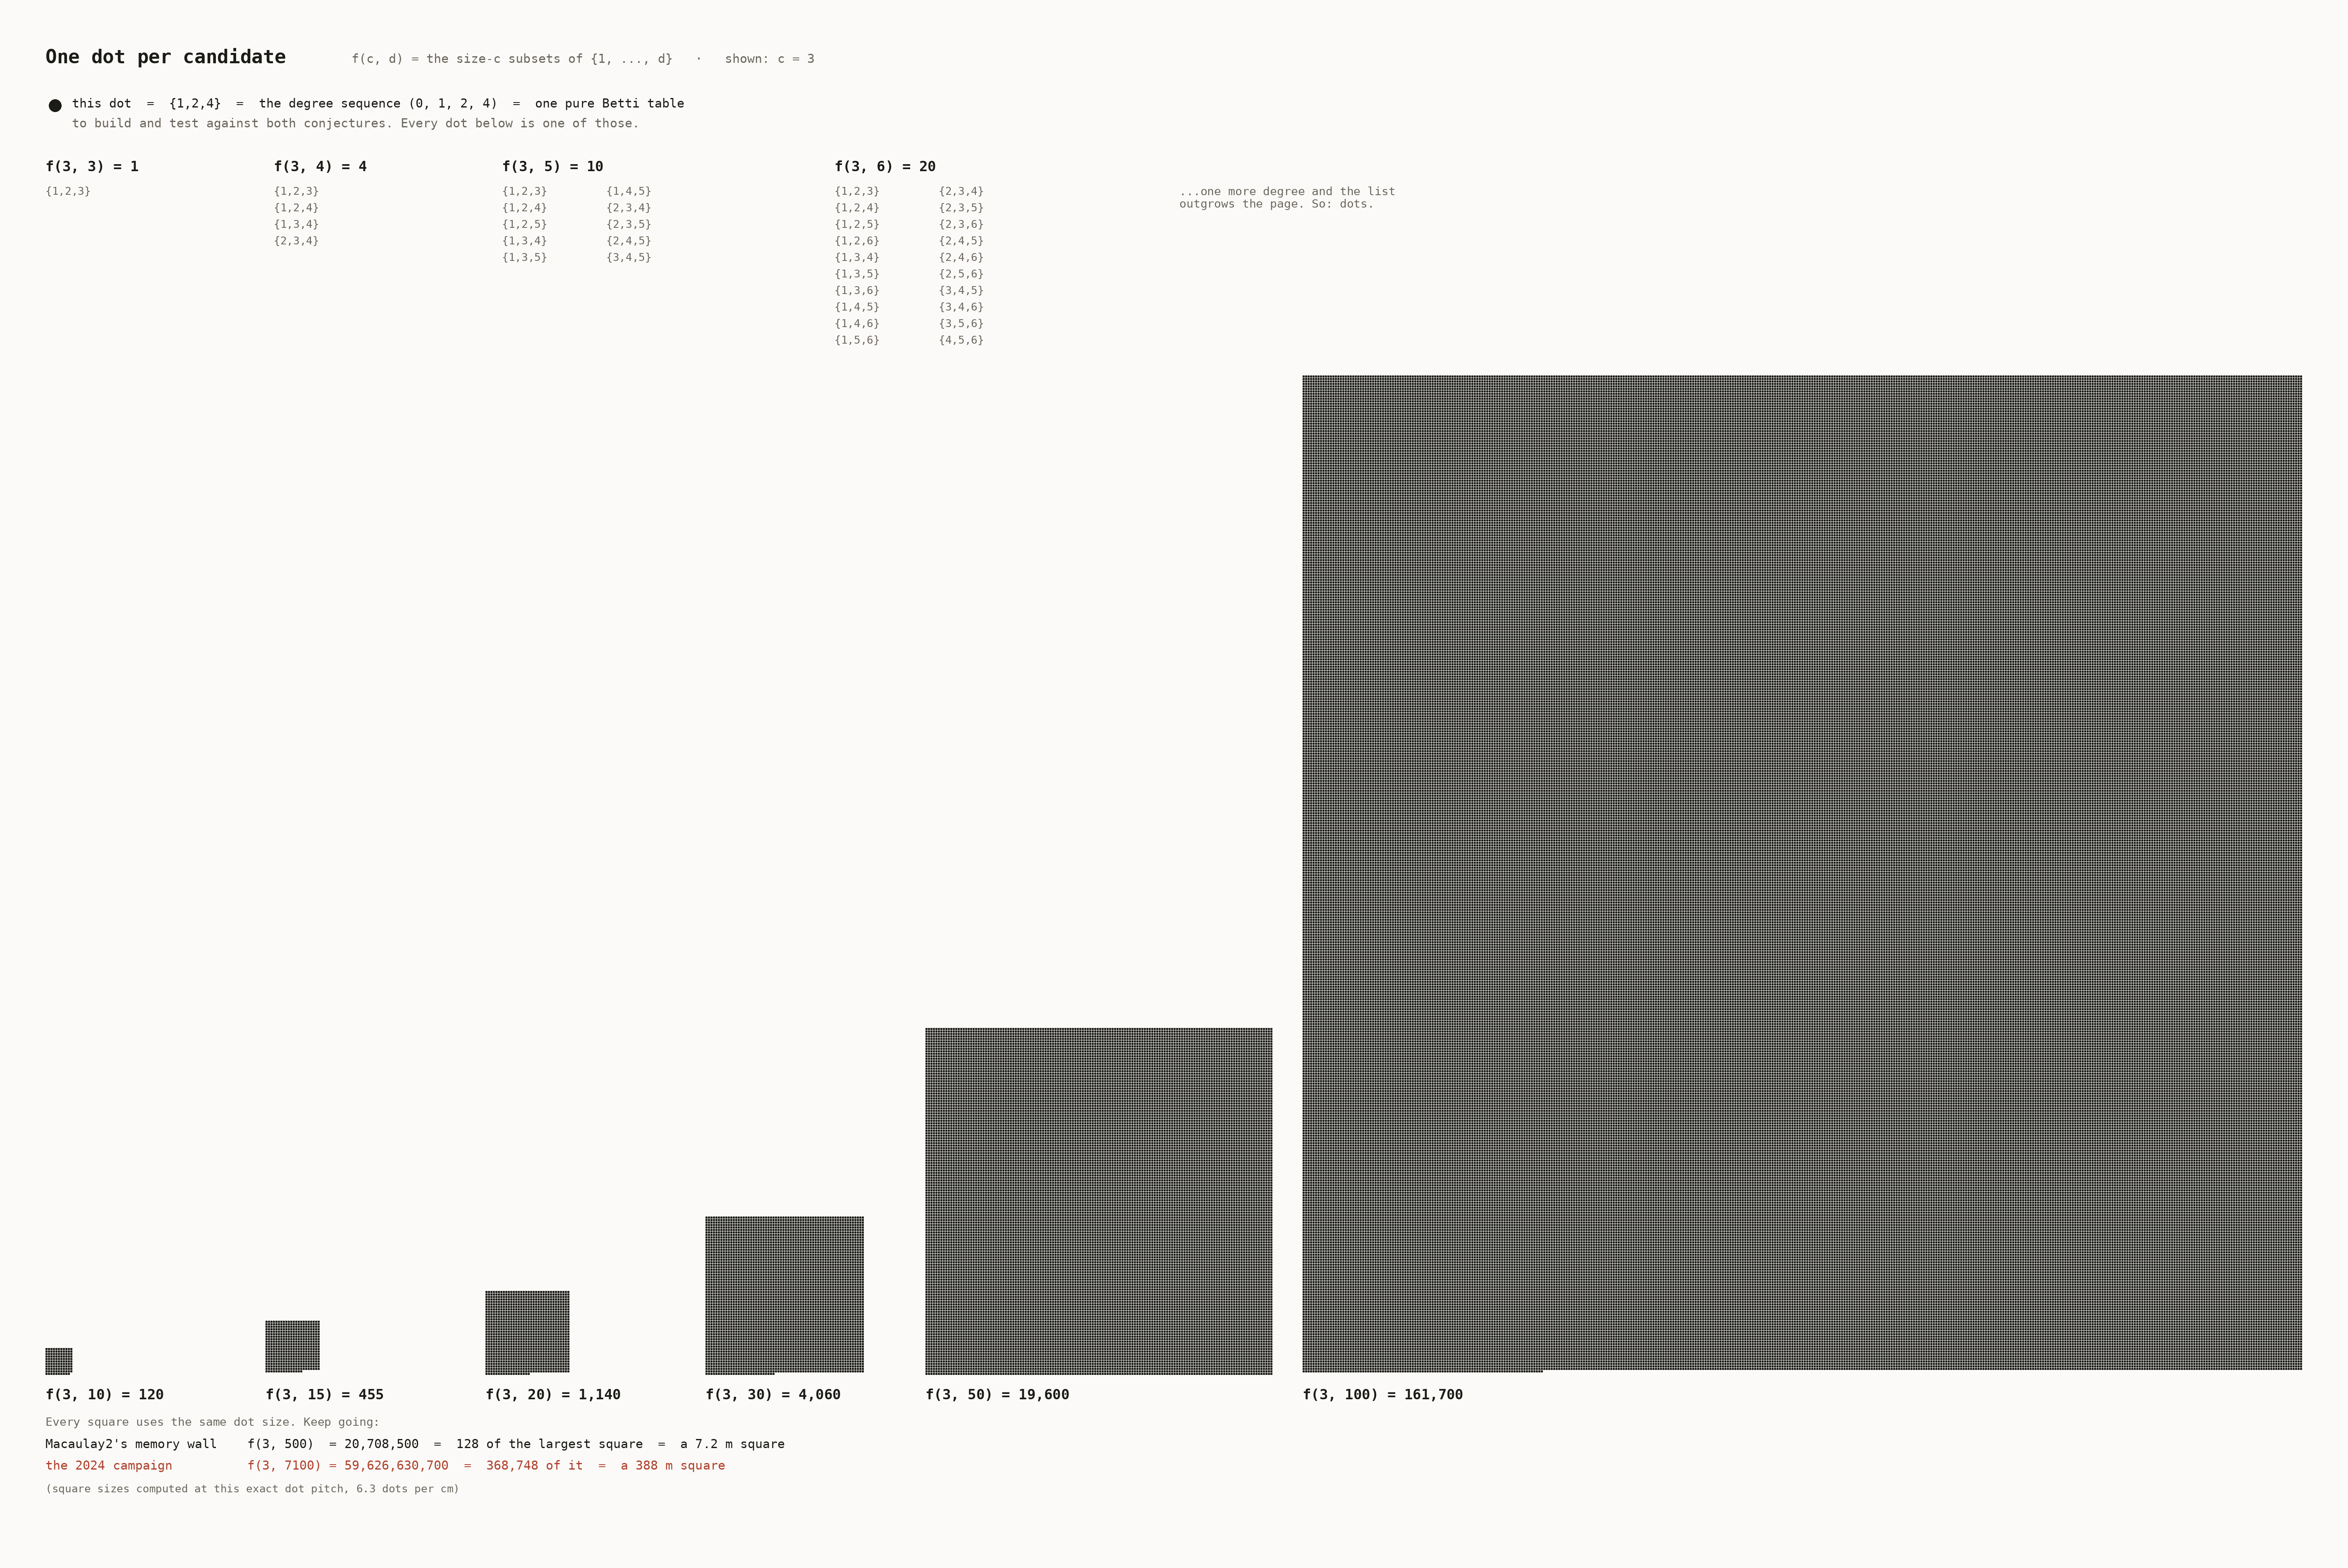
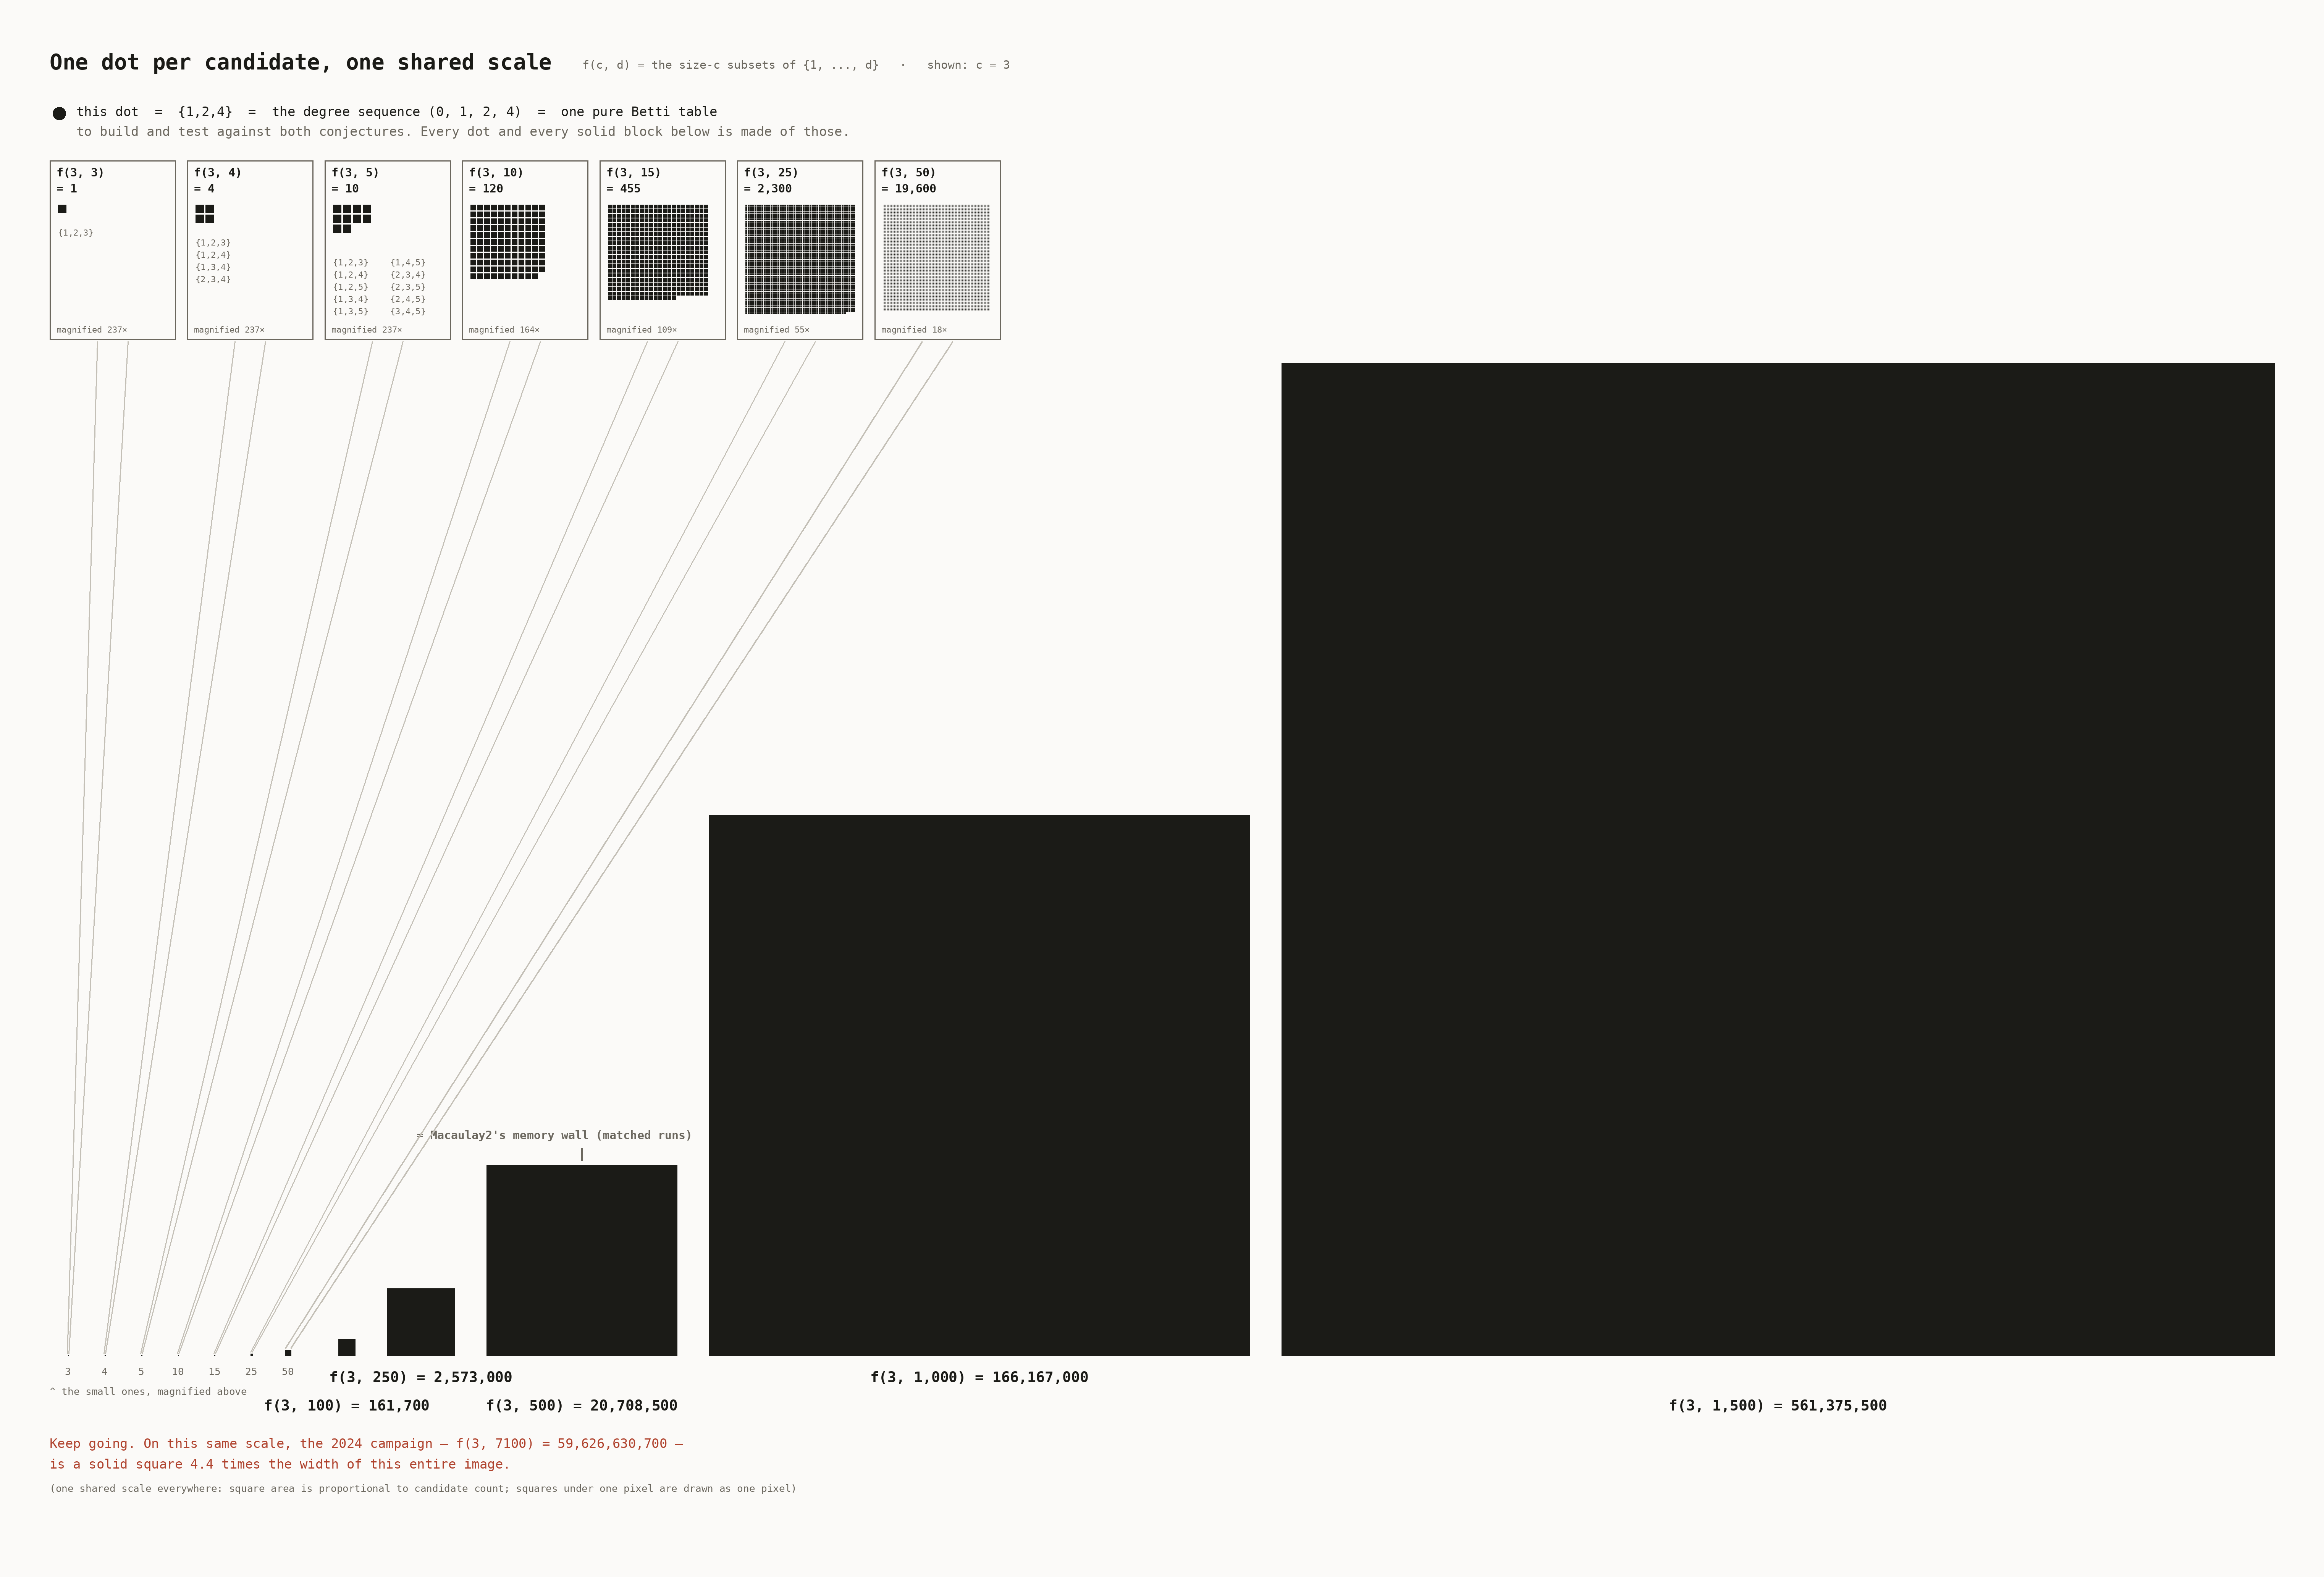
boij dots figure: one shared scale from degree 3 to 1,500 with magnifier callouts

diff --git a/boij-story.html b/boij-story.html
@@ -68,8 +68,8 @@
       <div class="shot-cap">Speedup by search size: a ~70&#8211;115&#215; band through the sub-million range and every codimension, climbing past 150&#215; by a few million as Macaulay2&#8217;s per-sequence cost grows. The engine&#8217;s advantage widens with the size of the search.</div>
   <h2>How the engine is built</h2>
       <p>The core represents the actual mathematical structures and runs the calculations; a recursive enumeration algorithm generates those structures inside it; and a performance layer runs the computations and checks them against the conjectures, within the hardware and runtime constraints and the inherent difficulty of large-integer arithmetic on a 64-bit processor.</p>
-  <a href="media/boij-dots.png"><img class="shot" src="media/boij-dots.png" alt="One dot per candidate degree sequence, drawn at the same dot size in every panel: the actual subsets listed for degree 3, 4, and 5, then dot squares growing from 120 at degree 10 to a solid 161,700-dot block at degree 100; a footer notes Macaulay2 memory wall equals 128 of the largest square and the 2024 campaign equals 368,748 of it" loading="lazy" width="5678" height="3792"></a>
-  <div class="shot-cap">The same function, drawn literally: one dot is one candidate &#8212; a subset, its degree sequence, one Betti table to build and test &#8212; at the same dot size in every square. The first panels list the actual subsets; by degree 100 the dots fuse into a solid block. Kept at this exact dot size, Macaulay2&#39;s wall is a 7.2-meter square; the 2024 campaign is a square 388 meters on a side.</div>
+  <a href="media/boij-dots.png"><img class="shot" src="media/boij-dots.png" alt="One dot per candidate degree sequence on one shared scale from degree 3 to 1,500: magnifier boxes blow the seven smallest squares up to visible dots with actual subsets listed through degree 5, leader lines drop to their true sub-pixel positions on a staircase of solid squares ending at 561 million candidates for degree 1,500, the degree-500 square is tagged as Macaulay2 memory wall, and a footer notes the 2024 campaign is a square 4.4 times the width of the whole image" loading="lazy" width="6086" height="4130"></a>
+  <div class="shot-cap">The same function, drawn literally on one shared scale from degree 3 to degree 1,500: one dot is one candidate &#8212; a subset, its degree sequence, one Betti table to test. At this scale the seven smallest squares are a pixel or a few across, so the boxes magnify them back to visible dots, with the actual subsets listed through degree 5. Macaulay2&#39;s matched-run memory wall is the degree-500 square on the shelf; the 2024 campaign, on this same scale, is a solid square 4.4 times the width of the entire image.</div>
   <a href="media/boij-surface.png"><img class="shot" src="media/boij-surface.png" alt="A 3D surface of f(c,d) over codimension c and max degree d on a linear scale out to degree 150, nearly flat at low codimension and rocketing to 294 billion at codimension 7, with the five integer codimension curves drawn in the same colors as the benchmark charts" loading="lazy" width="1107" height="861"></a>
   <div class="shot-cap">And over both variables at once, on a linear scale, out to degree 150: codimension 3 has reached 551,300 candidates; codimension 7 is at 294,109,729,200. At a fixed codimension the count grows like d&#7580;/c! &#8212; concretely, at codimension 3, raising the max degree from 100 to 1,000 takes 161,700 candidates to 166,167,000, about a thousand times more.</div>
   <a href="media/boij-scale.svg"><img class="shot" src="media/boij-scale.svg" alt="Linear-axis chart of binomial(d,c) for codimensions 3 through 7 out to degree 12,000: codimensions 4 through 7 exit the top almost immediately, the codimension-3 curve passes the red 2024-campaign mark at degree 7,100 and keeps rising toward 300 billion, and an inset magnifies the sliver at the origin containing Macaulay2 memory wall at 20.7 million" loading="lazy" width="980" height="580"></a>